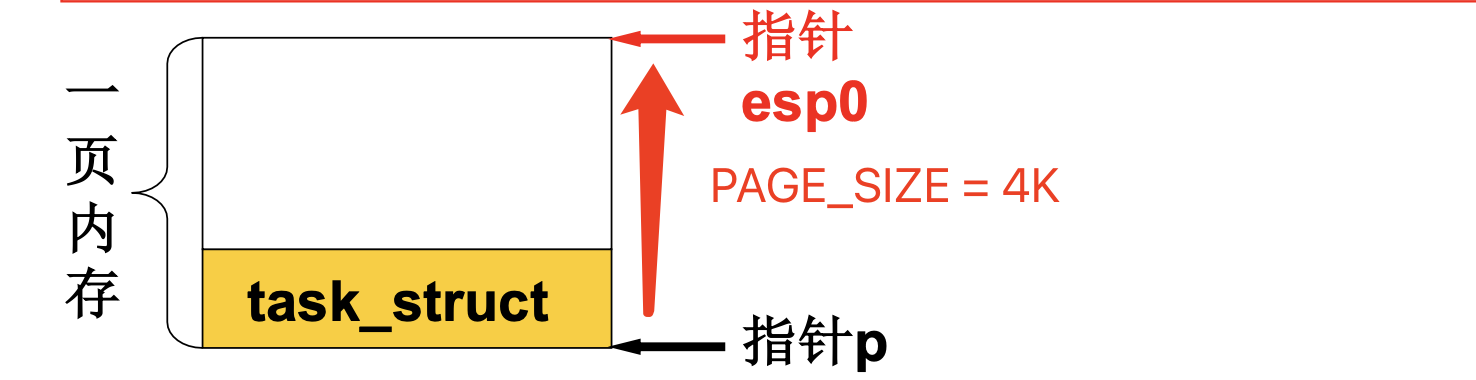
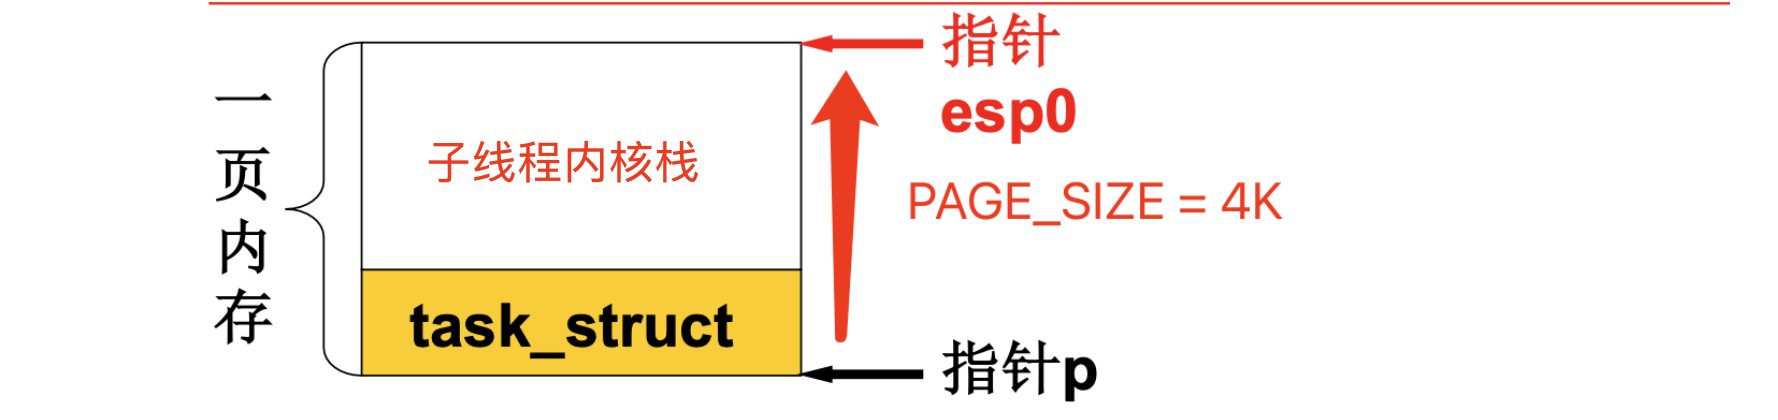
refine the note

diff --git a/Chapter02_Process_Thread/2.5_Kernel_Thread_Implementation.md b/Chapter02_Process_Thread/2.5_Kernel_Thread_Implementation.md
@@ -184,7 +184,7 @@
                   long ebx, long ecx, long edx, long fs, long es, long ds,
                   long eip, long cs, long eflags, long esp, long ss)
   ```
-  - 创建子线程其实就是拷贝父线程栈作为子线程的参数，因为C 函数执行其实就是在调栈中参数，所以栈至关重要
+  - 创建子线程其实就是拷贝父线程户态现场和通用寄存器，没有父进程内核栈的数据，因为 C函数执行其实就是在调栈中参数，所以栈至关重要
   - 从栈顶一直到底复制
   ![alt text](images/40.png)
   >⚠️ Linux 0.11 只有进程没有线程；现代内核里 `copy_process` 是共用的，通过 `clone` 标志位决定共享哪些资源，从而区分进程还是线程
@@ -220,9 +220,10 @@
   1. 申请内存空间（一页）
   2. 创建 TCB（`task_struct`）
   3. 创建内核栈（内核态使用）
-  4. 创建/关联用户栈（用户态使用）
+  4. 关联用户栈（用户态使用）
   5. 填入两个栈
-      - 主要将 `eip` 压入，但现在都压入到了 TSS 里了，所以不用做，初始化好 TSS 就可以了
+      - TSS 就是进程的完整寄存器容器，eip 等现场全装在里面；硬件 ljmp 自动恢复，不需要再手动压栈构造返回帧。
+      - >⚠️ 注意： TSS 就是子线程的完整"启动配置包"，栈指针、执行地址全在里面
   6. esp关联栈与TCB
 
 
@@ -269,22 +270,25 @@
 <a id="id8"></a>
 ## ✅ 知识点8: `fork` 返回机制——父子进程的不同路径
 
-**理论**
+**`fork`返回后怎么办？**
 - **用户程序中的 fork**：
-```c
-int main(int argc, char * argv[]) {
-    while(1) {
-        scanf("%s", cmd);
-        if(!fork()) {            // 子进程返回 0，进入此分支
-            exec(cmd);           // 子进程执行新程序
-        }
-        wait(0);                 // 父进程等待子进程
-    }
-}
-```
-- **fork 返回的两个问题**：
-  1. `iret` 前 `%eax` 是什么？——父进程返回子进程 PID，子进程返回 0
-  2. 父进程用 `iret` 从核心态到用户态，子进程呢？
+  ```c
+  int main(int argc, char * argv[]) {
+      while(1) {
+          scanf("%s", cmd);
+          if(!fork()) {            // 子进程返回 0，进入此分支
+              exec(cmd);           // 子进程执行新程序
+          }
+          wait(0);                 // 父进程等待子进程
+      }
+  }
+  ```
+- **fork 返回后**：
+  1. `iret` 前 `move res ,%eax` 是fork 的返回值
+      - **父进程返回子进程 PID，子进程返回 0**
+  2. 父进程用 `iret` 从核心态返回到用户态判断`if(!fork)`
+      - 所以 `if(!fork())` 为真，子进程进入 `exec(cmd)`，父进程等待
+
 - **子进程如何到达 iret？**
   - `copy_process` 中设置了 `p->tss.eip = eip`、`p->tss.cs = cs`、`p->tss.eax = 0`
   - 子进程首次调度时，CPU 从 TSS 加载这些值